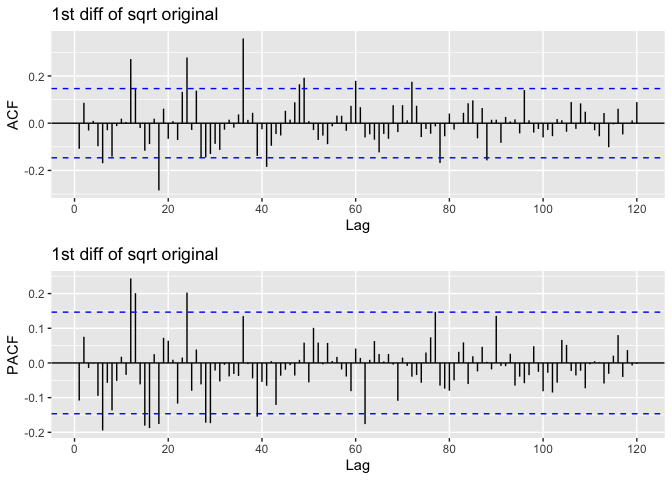
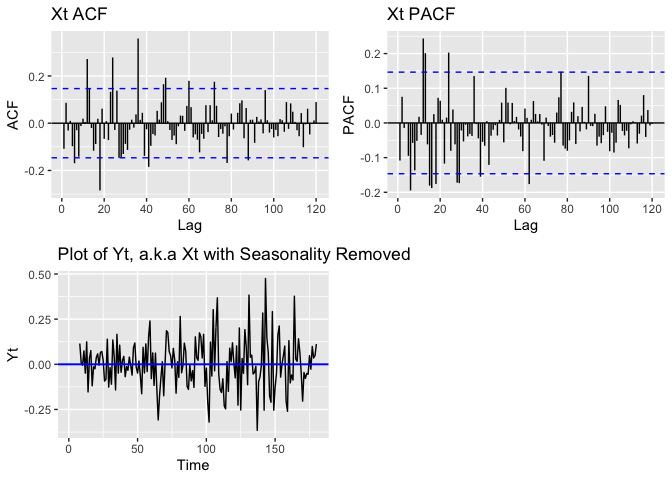
third commit

diff --git a/TimeSeries_Analysis.md b/TimeSeries_Analysis.md
@@ -1,5 +1,8 @@
     library(ggplot2)
     library(forecast)
+
+    ## Warning: package 'forecast' was built under R version 3.6.2
+
     library(fpp)
     library(gridExtra)
     library(astsa)
@@ -48,14 +51,14 @@ Difference (*L*<sub>*t*</sub> −  &gt; *X*<sub>*t*</sub>) :
     # figure 1.1b  take logarithm
     data1 <- data1 %>% mutate(Lt = log(data1$x))
     plot2 <- ggplot() +
-      geom_line(data = data1, aes(X, Lt), color = "black")  + labs(title="Plot of Log Transformed Time Series, Lt",
+      geom_line(data = data1, aes(X, Lt), color = "black")  + labs(title="Plot of Log Transformed Data, Lt",
             x ="Time", y = "Nt")
 
     # figure 1.1c  take 1st difference
     data1 <- data1 %>% mutate(Xt = c(NA, diff(data1$x, lag = 1)))
     plot3 <- ggplot() +
       geom_line(data = data1, aes(X, Xt), color = "black") + geom_hline(yintercept = 0, 
-                    color = "blue", size=0.7) + labs(title="Plot of 1st Difference Time Series",
+                    color = "blue", size=0.7) + labs(title="Plot of 1st Difference Time Series, Xt",
             x ="Time", y = "Xt")
 
     grid.arrange(plot1, plot2, plot3, ncol = 2)
@@ -67,45 +70,174 @@ PACF of *X*<sub>*t*</sub> are significant at around lag 6, 12, 18, 24,
 a.k.a implying a seasonal pattern of 6 periods. This is suggesting us to
 remove the seasonalities by differencing.
 
-    p1 <- ggAcf(data1$Xt, lag.max = 120)+ ggtitle("1st diff of sqrt original")
-    p2 <- ggPacf(data1$Xt, lag.max = 120) + ggtitle("1st diff of sqrt original")
-    grid.arrange(p1, p2, nrow = 2)
+1.3 Seasonal differencing<br/> Take Sixth Difference on
+*X*<sub>*t*</sub> (*X*<sub>*t*</sub> −  &gt; *Y*<sub>*t*</sub>) :
+*Y*<sub>*t*</sub> = *X*<sub>*t*</sub> − *X*<sub>*t* − 6</sub>
+
+    p1 <- ggAcf(data1$Xt, lag.max = 120)+ ggtitle("Xt ACF")
+    p2 <- ggPacf(data1$Xt, lag.max = 120) + ggtitle("Xt PACF")
+    #grid.arrange(p1, p2, nrow = 2)
+
+    data1 <- data1 %>% mutate(Yt = c(NA, NA,NA,NA,NA,NA, diff(data1$Xt, lag = 6)))
+    plot4 <- ggplot() +
+      geom_line(data = data1, aes(X, Yt), color = "black") + geom_hline(yintercept = 0, 
+                    color = "blue", size=0.7) + labs(title="Plot of Yt, a.k.a Xt with Seasonality Removed",
+            x ="Time", y = "Yt")
+
+    grid.arrange(p1, p2,plot4, nrow = 2)
 
 ![](TimeSeries_Analysis_files/figure-markdown_strict/unnamed-chunk-4-1.png)
 
-1.3 Seasonal differencing Take Sixth Difference on *X*<sub>*t*</sub>
-(*X*<sub>*t*</sub> −  &gt; *Y*<sub>*t*</sub>) :
-*Y*<sub>*t*</sub> = *X*<sub>*t*</sub> − *X*<sub>*t* − 6</sub>
-
-    data1 <- data1 %>% mutate(Yt = c(NA, NA,NA,NA,NA, diff(data1$Xt, lag = 5)))
-    plot4 <- ggplot() +
-      geom_line(data = data1, aes(X, Yt), color = "black") + geom_hline(yintercept = 0, 
-                    color = "blue", size=0.7) + labs(title="Plot of Yt Time Series with Seasonality Removed",
-            x ="Time", y = "Yt")
-    plot4
-
-![](TimeSeries_Analysis_files/figure-markdown_strict/unnamed-chunk-5-1.png)
-
     adf.test(na.remove(data1$Yt))
-
-    ## Warning in adf.test(na.remove(data1$Yt)): p-value smaller than printed p-
-    ## value
 
     ## 
     ##  Augmented Dickey-Fuller Test
     ## 
     ## data:  na.remove(data1$Yt)
-    ## Dickey-Fuller = -9.3639, Lag order = 5, p-value = 0.01
+    ## Dickey-Fuller = -12.632, Lag order = 5, p-value = 0.01
     ## alternative hypothesis: stationary
 
-1.4 select a model Augmented Dicky-Fuller test indicates if the data
-correponds to a stationary process, and the above test shows
+1.4 select a model<br/> Augmented Dicky-Fuller test indicates if the
+data correponds to a stationary process, and the above test shows
 *Y*<sub>*t*</sub> is significant at 0.01 confidence level. Therefore, we
 are quite convinced that *Y*<sub>*t*</sub> is a stationary process.
-We’ll fit an ARMA model from here.<br/> From PACF, we see an obvious
+We’ll fit an ARMA model from here.<br/> From PACF, we see significant
+lags at lag4, lag5, lag7, lag9, lag14; from the ACF, we still see a
+seasonal pattern at period of 5. Since a seansonal differencing has
+applied here, it’s reasonable to propose a GARCH model here(we’ll
+discuss this in Second Section). But we’ll stick to SARIMA within this
+section.
 
     p3 <- ggAcf(data1$Yt, lag.max = 60)+ ggtitle("Yt ACF")
     p4 <- ggPacf(data1$Yt, lag.max = 60) + ggtitle("Yt PACF")
     grid.arrange(p3, p4, nrow = 2)
 
-![](TimeSeries_Analysis_files/figure-markdown_strict/unnamed-chunk-7-1.png)
+![](TimeSeries_Analysis_files/figure-markdown_strict/unnamed-chunk-6-1.png)
+
+1.5 Demo Fit an ARMA model on *Y*<sub>*t*</sub> Based on the ACF and
+PACF, we’ll fit ARMA data on *Y*<sub>*t*</sub>, A.K.A a
+*S**A**R**I**M**A*(*p*, 1, *q*) \* (*P*, 1, *Q*)<sub>6</sub> Model on
+the log transformed of original data(*L*<sub>*t*</sub>). Since there’s
+not an explicit obvious ARMA pattern given in *Y*<sub>*t*</sub>, a few
+options are proposed here and we will later on make a model selection
+based on the Cross Validation results.<br/> Option1 : ARMA(4,1) |||
+Reason: We have two very relevant AR factor ar1 ar3, as well as an MA
+factor ma1
+
+    ## Model 1 summary
+    model1 <- arma(na.remove(data1$Yt), order = c(4,2), include.intercept = FALSE)
+    summary(model1)
+
+    ## 
+    ## Call:
+    ## arma(x = na.remove(data1$Yt), order = c(4, 2), include.intercept = FALSE)
+    ## 
+    ## Model:
+    ## ARMA(4,2)
+    ## 
+    ## Residuals:
+    ##      Min       1Q   Median       3Q      Max 
+    ## -0.32018 -0.07904 -0.01353  0.07119  0.35054 
+    ## 
+    ## Coefficient(s):
+    ##      Estimate  Std. Error  t value Pr(>|t|)    
+    ## ar1   0.38979     0.07064    5.518 3.43e-08 ***
+    ## ar2   0.54948     0.13089    4.198 2.69e-05 ***
+    ## ar3  -0.01142     0.11018   -0.104    0.917    
+    ## ar4  -0.36146     0.07241   -4.992 5.98e-07 ***
+    ## ma1  -0.48947     0.01586  -30.867  < 2e-16 ***
+    ## ma2  -0.59197     0.01955  -30.278  < 2e-16 ***
+    ## ---
+    ## Signif. codes:  0 '***' 0.001 '**' 0.01 '*' 0.05 '.' 0.1 ' ' 1
+    ## 
+    ## Fit:
+    ## sigma^2 estimated as 0.01503,  Conditional Sum-of-Squares = 2.53,  AIC = -223.23
+
+    ## plot the Yt_hat and Yt
+    model1_perf <- data.frame(c(1:180), c(NA, NA,NA,NA,NA,NA,NA, model1$fitted.values))
+    x <- c("X", "Yt_fitted")
+    colnames(model1_perf) <- x
+
+    #plot5 <- ggplot() +
+    ##  geom_line(data = data1, aes(X, model1_pred), color = "black") +
+    #  geom_line(data = data1, aes(X, Yt), color = "red") + ggtitle("model1, Yt red, Yt_fitted black")+
+    #  geom_hline(yintercept = 0, color = "blue", size=0.7) 
+      
+    #plot5
+
+1.6 From here we’ll officially comparing a few potential models, to
+avoid the redundance procedures above, we won’t repeat the above process
+for tidyness, but they are essentially similar. Instead, to give better
+interpretation, we’ll leverage the SARIMA and SARIMA.for functions for
+our model validation process. For consistency purpose, we would also
+apply the SARIMA function on it again.<br/><br/>
+
+Model1:
+
+    sarima.noplot = function(x) {
+      png(tf<-tempfile())
+      out <- sarima.for(x, p=4, d=1, q=2, P=0, D=1, Q=0, S = 12,n.ahead = 12)
+      dev.off()
+      file.remove(tf)
+      return(out)
+    }
+
+    sarima.noplot(data1$Lt)
+
+    ## Warning in log(s2): NaNs produced
+
+    ## Warning in log(s2): NaNs produced
+
+    ## $pred
+    ## Time Series:
+    ## Start = 181 
+    ## End = 192 
+    ## Frequency = 1 
+    ##  [1] 0.6689945 0.7018705 0.6854186 0.6775948 0.6445388 0.6374632 0.6282993
+    ##  [8] 0.6355440 0.6663835 0.6769867 0.6747376 0.7274834
+    ## 
+    ## $se
+    ## Time Series:
+    ## Start = 181 
+    ## End = 192 
+    ## Frequency = 1 
+    ##  [1] 0.06835722 0.08183900 0.10111095 0.12251906 0.14516423 0.16219509
+    ##  [7] 0.17430588 0.18482541 0.19654125 0.20942864 0.22146368 0.23150976
+
+    #pred_value = matrix(0, nrow = 180, ncol = 1)
+    #i = 1
+    ##while(i <= 156){
+    #  data1sub = data1$Lt[data1$X < i + 24]
+    #  # model1
+    #  cvmodel1 <- sarima.for(data1sub, p=4, d=1, q=2, P=0, D=1, Q=0, S = 12, n.ahead = 12)
+    #  pred_value[(24+i):(35+i),] <- exp(cvmodel1$pred)
+    #  i = i + 12
+    #}
+
+    #pred_value <- data.frame(c(1:180),pred_value)
+    #ggplot() + 
+    #  geom_line(data = data1, aes(X, x), color = "black")  +labs(title="Plot of Orginal Time Series", x ="Time", y = "X") + #geom_line(data = pred_value, aes(c.1.180., pred_value), color = "red")
+
+    sarima.for(data1$Lt, p=4, d=1, q=2, P=0, D=1, Q=0, S = 12,n.ahead = 12)
+
+    ## Warning in log(s2): NaNs produced
+
+    ## Warning in log(s2): NaNs produced
+
+![](TimeSeries_Analysis_files/figure-markdown_strict/unnamed-chunk-10-1.png)
+
+    ## $pred
+    ## Time Series:
+    ## Start = 181 
+    ## End = 192 
+    ## Frequency = 1 
+    ##  [1] 0.6689945 0.7018705 0.6854186 0.6775948 0.6445388 0.6374632 0.6282993
+    ##  [8] 0.6355440 0.6663835 0.6769867 0.6747376 0.7274834
+    ## 
+    ## $se
+    ## Time Series:
+    ## Start = 181 
+    ## End = 192 
+    ## Frequency = 1 
+    ##  [1] 0.06835722 0.08183900 0.10111095 0.12251906 0.14516423 0.16219509
+    ##  [7] 0.17430588 0.18482541 0.19654125 0.20942864 0.22146368 0.23150976
